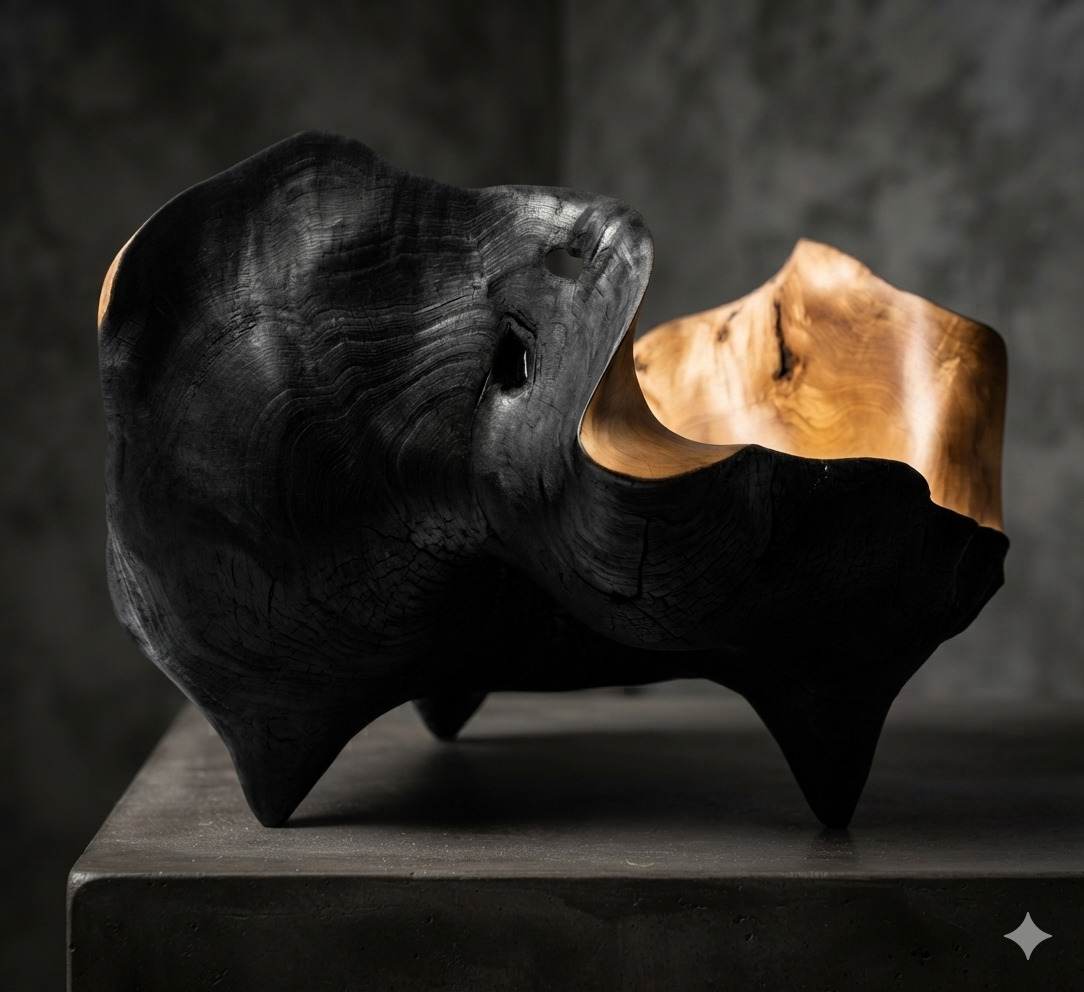
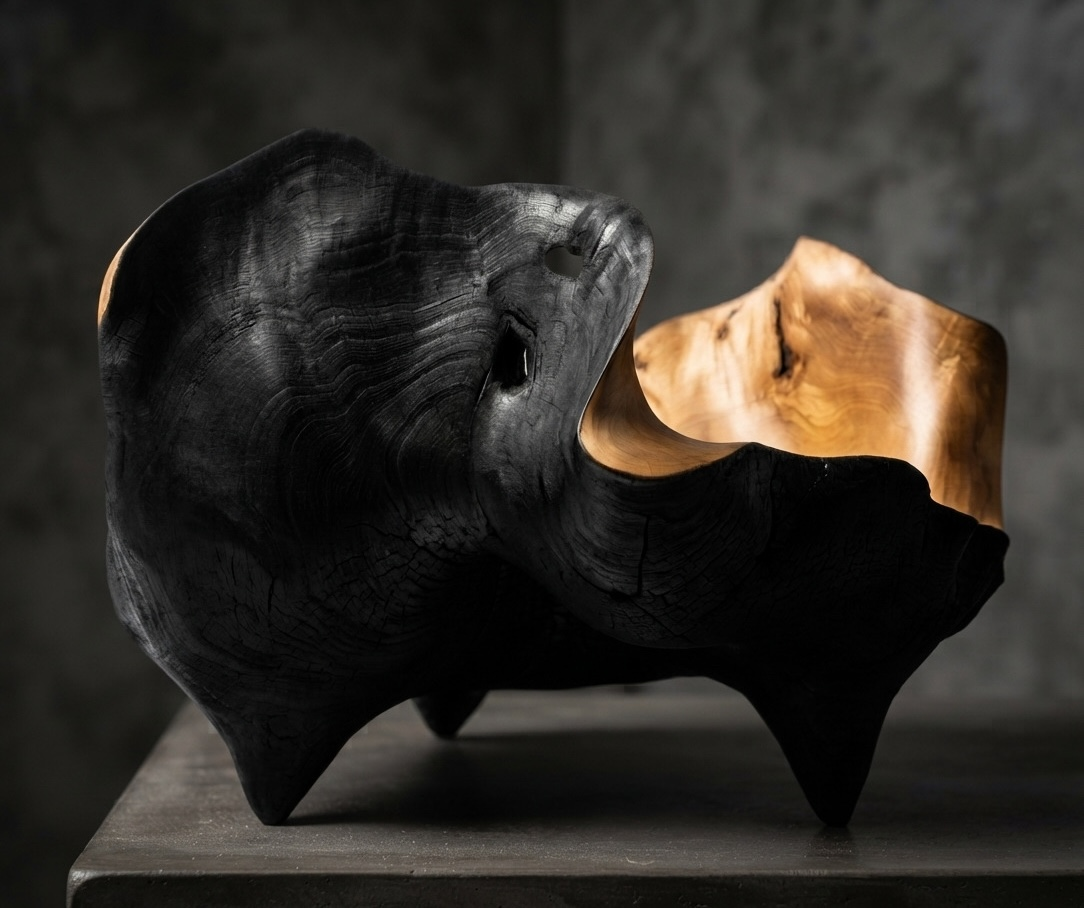
Hero: break subtitle into 2 lines, remove checkmark, update cropped grid-01 webp/jpg

diff --git a/index.html b/index.html
@@ -19,7 +19,7 @@
   <meta property="og:url" content="https://bycraft.by/">
   <meta property="og:image" content="https://bycraft.by/images/hero/hero-main.jpg">
   <meta property="og:image:width" content="1084">
-  <meta property="og:image:height" content="992">
+  <meta property="og:image:height" content="908">
   <meta property="og:image:alt" content="Скульптурный арт-объект из берёзового сувеля с обжигом — BYCRAFT">
   <meta property="og:locale" content="ru_BY">
   <meta property="og:locale:alternate" content="ru_RU">
@@ -153,7 +153,7 @@
       "@type": "Event",
       "name": "Чароўны Млын — Выставка-ярмарка изделий ручной работы",
       "description": "Скульптурные работы Валентина Атроша (BYCRAFT) на выставке-ярмарке «Чароўны Млын» в Минске.",
-      "image": "https://bycraft.by/images/home/grid-01.jpg?v=2",
+      "image": "https://bycraft.by/images/home/grid-01.jpg?v=3",
       "startDate": "2026-12-10",
       "endDate": "2026-12-13",
       "eventStatus": "https://schema.org/EventScheduled",
@@ -180,7 +180,7 @@
       "@type": "Event",
       "name": "ArtFlection — Всероссийский фестиваль искусств & ремёсел",
       "description": "Участие скульптурных арт-объектов из берёзового сувеля BYCRAFT (Валентин Атрош) на фестивале ArtFlection в Москве.",
-      "image": "https://bycraft.by/images/home/grid-01.jpg?v=2",
+      "image": "https://bycraft.by/images/home/grid-01.jpg?v=3",
       "startDate": "2026-12-26",
       "endDate": "2026-12-27",
       "eventStatus": "https://schema.org/EventScheduled",
@@ -365,7 +365,7 @@ img { max-width: 100%; }
 
 <!-- BYCRAFT:HEAD:START -->
 <script>document.documentElement.classList.add('bc-js');</script>
-<link rel="preload" as="image" href="/images/home/grid-01.webp?v=2" type="image/webp" fetchpriority="high">
+<link rel="preload" as="image" href="/images/home/grid-01.webp?v=3" type="image/webp" fetchpriority="high">
 <link rel="stylesheet" href="/css/bc-hero.css?v=b71d114i">
 <!-- BYCRAFT:HEAD:END -->
 <!-- BYCRAFT:HALLCSS:START -->
@@ -1858,13 +1858,13 @@ html body.page-home .bc-hero .bc-hero__dim-left span {
       <div class="bc-hero__dim-left" aria-hidden="true"><span></span><b>240 mm</b><span></span></div>
       <div class="bc-hero__plate">
         <!-- Для видео-лупа достаточно положить сжатый файл и раскомментировать <video>:
-        <video class="bc-hero__video" autoplay muted loop playsinline webkit-playsinline poster="/images/home/grid-01.webp?v=2">
+        <video class="bc-hero__video" autoplay muted loop playsinline webkit-playsinline poster="/images/home/grid-01.webp?v=3">
           <source src="/images/home/video-hero.mp4" type="video/mp4">
         </video>
         -->
         <picture>
-          <source srcset="/images/home/grid-01.webp?v=2" type="image/webp">
-          <img class="bc-hero__img" src="/images/home/grid-01.jpg?v=2" alt="Скульптурный арт-объект № 197 из берёзового сувеля с обжигом" fetchpriority="high" decoding="async">
+          <source srcset="/images/home/grid-01.webp?v=3" type="image/webp">
+          <img class="bc-hero__img" src="/images/home/grid-01.jpg?v=3" alt="Скульптурный арт-объект № 197 из берёзового сувеля с обжигом" fetchpriority="high" decoding="async">
         </picture>
         <div class="bc-hero__cross-v" aria-hidden="true"></div>
         <div class="bc-hero__cross-h" aria-hidden="true"></div>
@@ -1879,7 +1879,7 @@ html body.page-home .bc-hero .bc-hero__dim-left span {
       <span class="bc-line">Создано природой</span>
       <span class="bc-line">Завершено человеком</span>
     </h1>
-    <p class="bc-hero__sub">Скульптурные арт-объекты из сувеля берёзы</p>
+    <p class="bc-hero__sub">Скульптурные арт-объекты<br>из сувеля берёзы</p>
 
     <a href="/works/work-197/" class="bc-hero__sig">
       <div class="bc-hero__sig-top">
@@ -1891,7 +1891,6 @@ html body.page-home .bc-hero .bc-hero__dim-left span {
         </div>
       </div>
       <div class="bc-hero__sig-cert">
-        <svg width="14" height="14" fill="none" stroke="currentColor" stroke-width="1.3" viewBox="0 0 24 24" aria-hidden="true"><path d="M5 12l4 4 10-10"/></svg>
         <span>Единственный экземпляр</span>
       </div>
     </a>
@@ -2022,7 +2021,7 @@ html body.page-home .bc-hero .bc-hero__dim-left span {
       <article class="craft-step">
         <div class="craft-photo">
           <img src="/images/workshop/process-01.jpg?v=6" alt="Берёзовый сувель на стволе дерева в лесу, общий план." loading="lazy"
-               onerror="this.onerror=null;this.src='/images/home/grid-01.jpg?v=2'">
+               onerror="this.onerror=null;this.src='/images/home/grid-01.jpg?v=3'">
         </div>
         <h3 class="craft-step-num">01 · МАТЕРИАЛ</h3>
         <p class="craft-step-text">Сувель — редкий нарост с мраморным переплетением волокон. Найти выразительный экземпляр непросто: поиски могут занимать несколько месяцев и сотни километров.</p>
